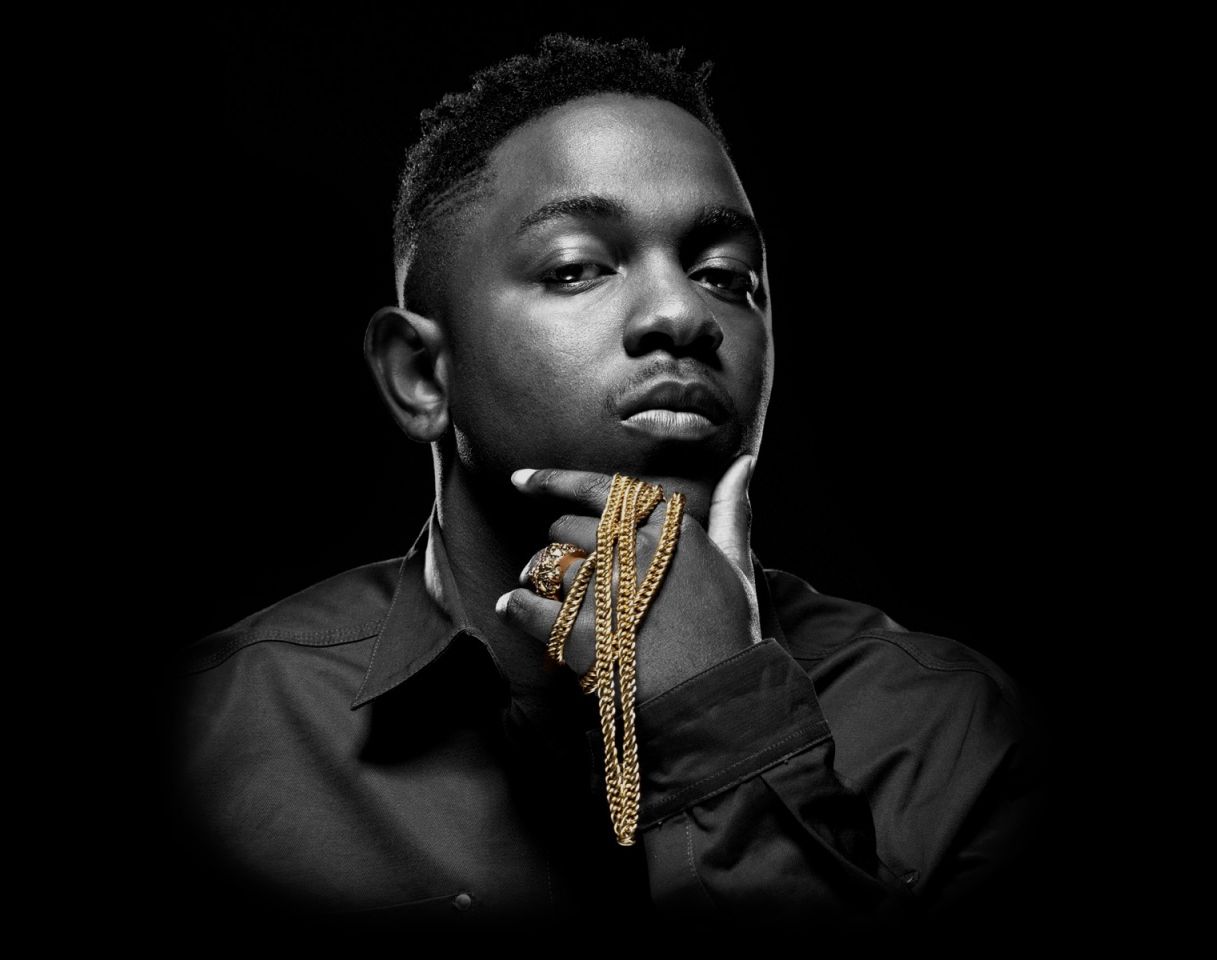
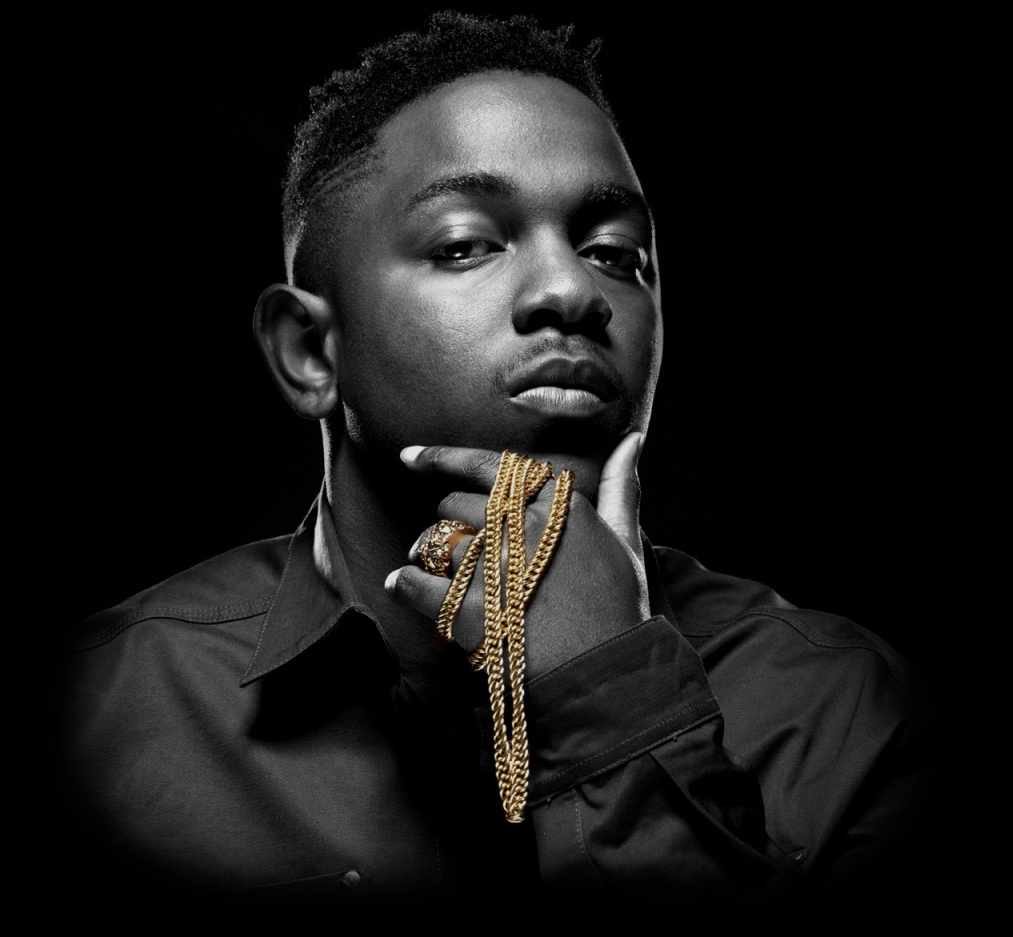
Resized [and relocated] images

Changed region(s): [[0.0612, 0.0, 0.8875, 0.9594]]

diff --git a/index.html b/index.html
@@ -15,10 +15,10 @@
     </div>
 
     <!-- Images -->
-    <img id="drake" src="images/drake-black-background(newest).png" alt="Drake" height="280"/>
+    <img id="drake" src="images/drake-black-background(newest).png" alt="Drake" height="270"/>
     <img id="cole" src="images/j-cole-black-background(new).png" alt="Cole" height="340"/>
-    <img id="kanye" src="images/kanye-black-background.png" alt="Kanye" height="380"/>
-    <img id="kendrick" src="images/kendrick-black-background(new).png" alt="Kendrick" height="260"/>
+    <img id="kanye" src="images/kanye-black-background.png" alt="Kanye" height="270"/>
+    <img id="kendrick" src="images/kendrick-black-background(new).png" alt="Kendrick" height="255"/>
 
     <p>
         <span id="for-mobile"></span>

diff --git a/css/style.css b/css/style.css
@@ -124,29 +124,29 @@ div p {
 
 #drake {
     position: absolute;
-    left: 10px;
-    top: 360px;
+    left: 231px;
+    top: 389px;
     cursor: pointer;
 }
 
 #cole {
     position: absolute;
-    right: 121px;
-    top: 350px;
+    right: 191px;
+    top: 365px;
     cursor: pointer;
 }
 
 #kanye {
     position: absolute;
-    right: 0px;
-    top: -20px;
+    right: 90px;
+    top: 62px;
     cursor: pointer;
 }
 
 #kendrick {
     position: absolute;
-    left: 10px;
-    top: 50px;
+    left: 61px;
+    top: 56px;
     cursor: pointer;
 }
 
